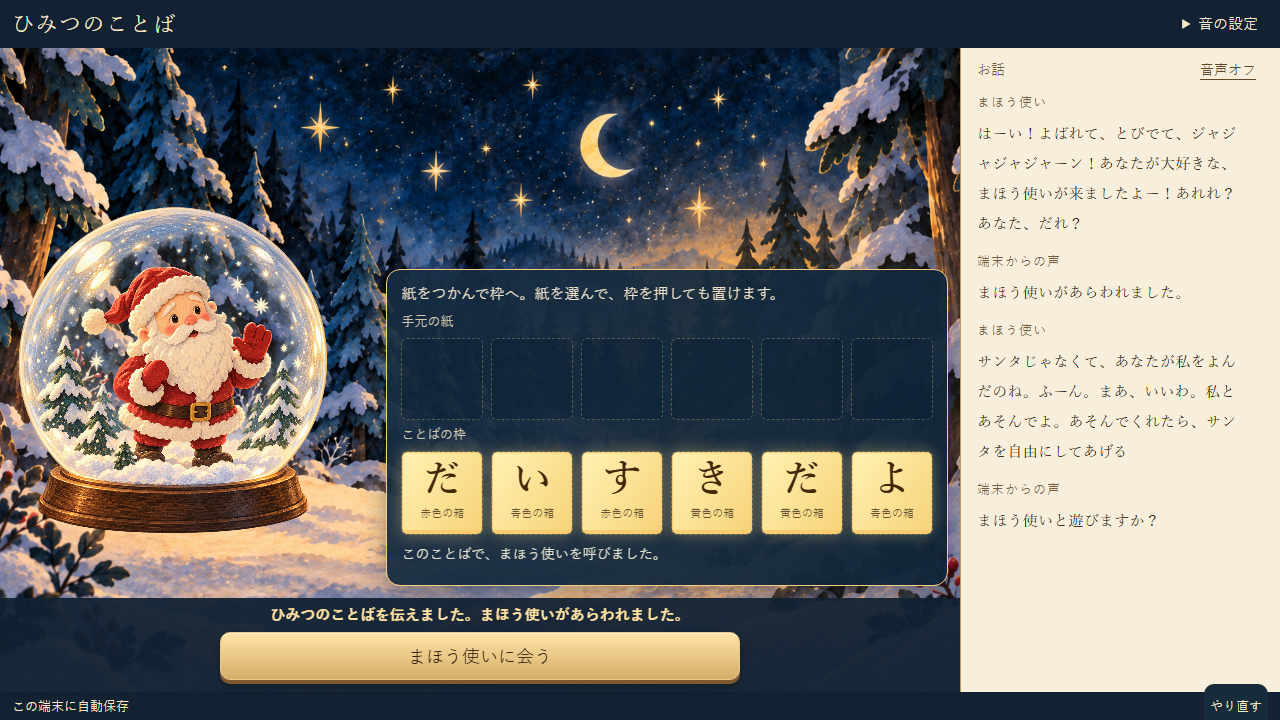
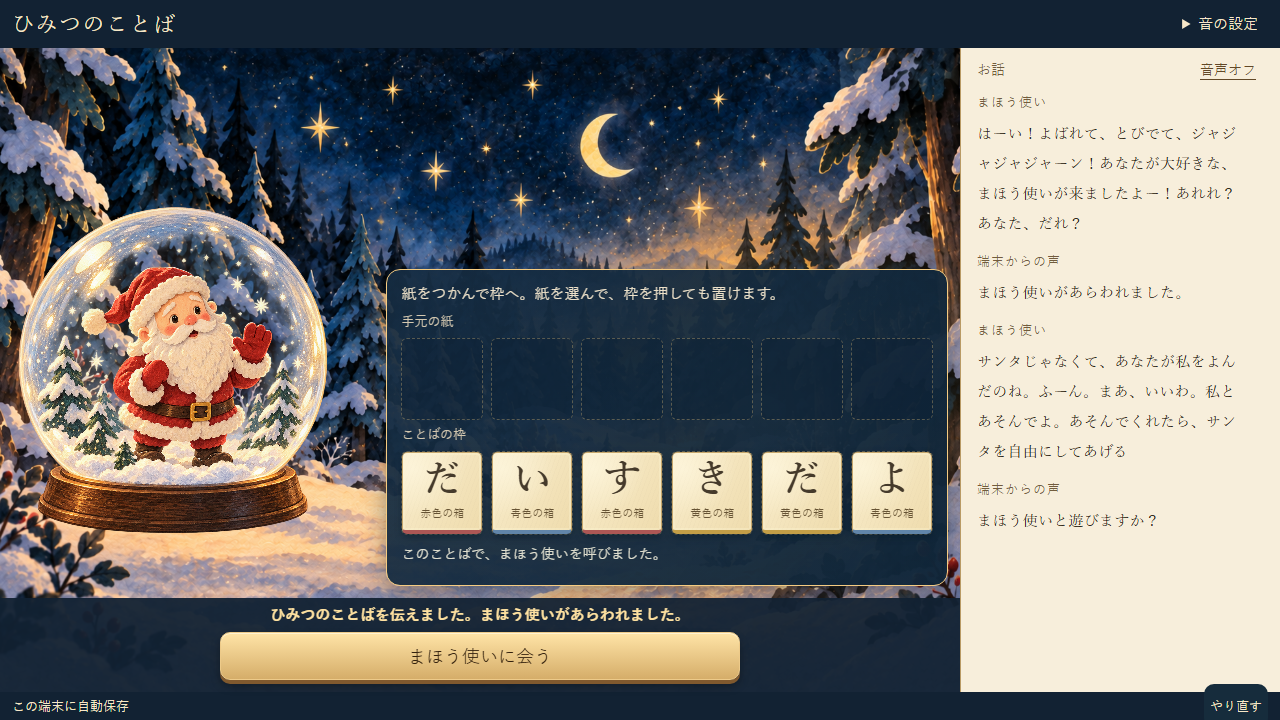
fix: preserve paper design and box colors after success

Changed region(s): [[0.3125, 0.6111, 0.75, 0.7639]]

diff --git a/prototype/paper-stage.css b/prototype/paper-stage.css
@@ -42,7 +42,7 @@ body.paper-playing { background:#102031; }
 #paper-feedback[data-kind="success"] { color:#ffe2a1;font-weight:bold; }
 .paper-stage .primary { width:min(520px,100%);min-height:48px;font-size:18px;border-radius:10px;padding:8px 12px;color:#32200d;background:linear-gradient(#ffe4a7,#d5ad69);border:1px solid #edca89;box-shadow:0 4px 0 #80592e,0 6px 10px #0005,inset 0 1px #fff3d2; }
 .paper-stage .primary:active { transform:translateY(3px);box-shadow:0 1px 0 #80592e; }
-.paper-success .paper-card:disabled { opacity:1;color:#42280a;border-color:#f8cd72;background:linear-gradient(125deg,#fff1b2,#f7d37a);box-shadow:0 0 16px #ffd48566; }
+.paper-success .paper-card:disabled { opacity:1; }
 .paper-success .paper-workspace { border-color:#f5cc82; }
 .paper-success .paper-actions,.paper-success .paper-key-help { display:none; }
 @media (max-width:420px) { .paper-work { padding-inline:6px; }.paper-workspace { padding:8px; }.paper-row { gap:4px; }.paper-card,.paper-slot-target { height:68px;min-height:68px; }.paper-home,.paper-zone { min-height:68px; }.paper-card span { font-size:32px; }.paper-card small { font-size:10px; }.paper-stage .box-header h1 { font-size:20px; }#paper-help,#selection-status { font-size:14px; } }

diff --git a/tests/browser/papers.spec.js b/tests/browser/papers.spec.js
@@ -38,7 +38,7 @@ test('papers: drag placement and occupied swap, tray return, outside drop, cance
   await page.mouse.up();expect((await saved(page)).spellSlots[4]).toBe('red-0');await expect(card(page,'red-0')).toBeFocused();
   await expect(page.locator('.paper-ghost')).toHaveCount(0);
 });
-test('papers: empty/incomplete/wrong stays editable; explicit success stays gold, rapid sends summon once, restart acknowledges',async({page})=>{
+test('papers: empty/incomplete/wrong stays editable; explicit success stays visible, rapid sends summon once, restart acknowledges',async({page})=>{
   await setupPapers(page);await page.locator('[data-paper-submit]').click();await expect(page.locator('#paper-feedback')).toContainText('空いている枠');
   await card(page,'red-0').click();await slot(page,0).click();await page.locator('[data-paper-submit]').click();await expect(page.locator('#paper-feedback')).toHaveAttribute('data-kind','error');
   const wrong=['red-0','red-1','blue-0','blue-1','yellow-0','yellow-1'];await arrangePapers(page,wrong);await page.locator('[data-paper-submit]').click();await expect(page.locator('#paper-feedback')).toContainText('見直せます');expect((await saved(page)).spellSlots).toEqual(wrong);
